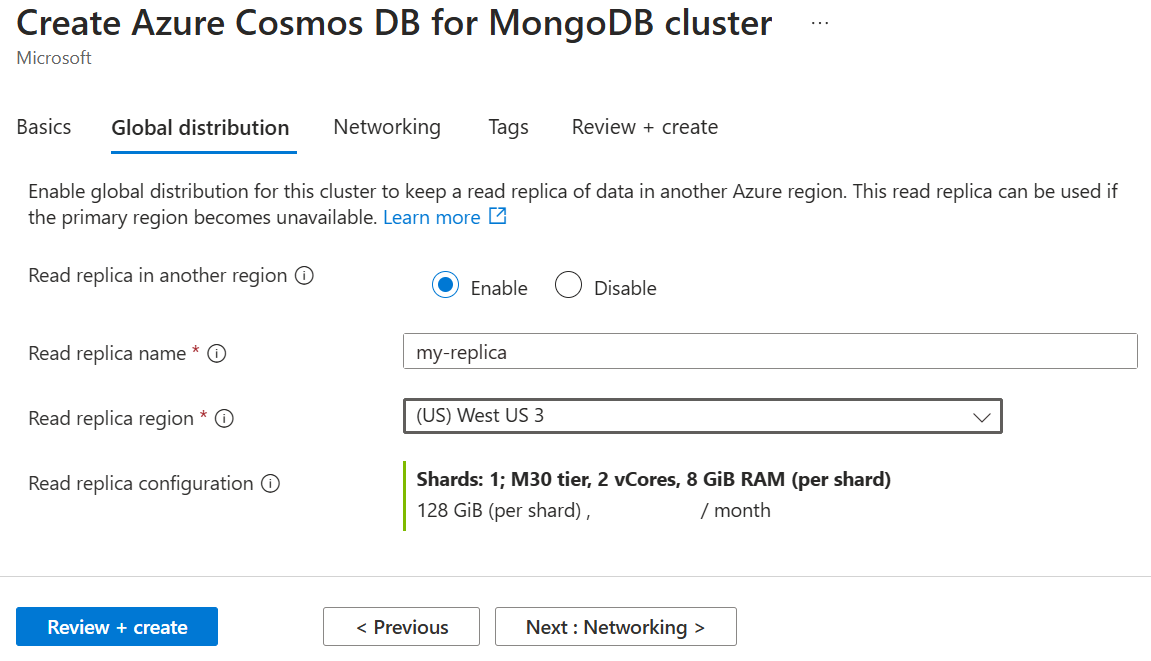
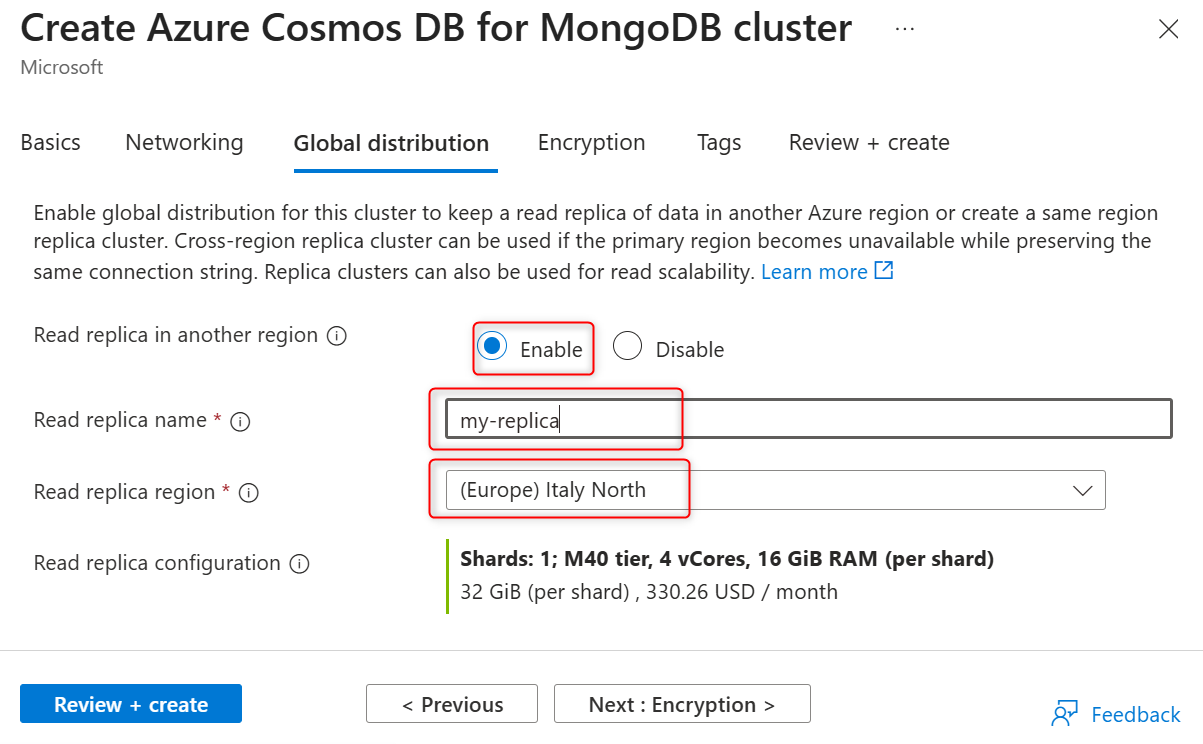
Concept and how to update

diff --git a/articles/cosmos-db/mongodb/vcore/how-to-cross-region-replica-portal.md b/articles/cosmos-db/mongodb/vcore/how-to-cross-region-replica-portal.md
@@ -17,16 +17,19 @@ appliesto:
 
 # Create and use a cross-region replica cluster or same region replica cluster in Azure Cosmos DB for MongoDB vCore
 
-In this guide, you create a cluster replica in another region for an Azure Cosmos DB for MongoDB vCore cluster for disaster recovery (DR) purposes. This replica cluster stores a copy of all of your MongoDB resources - databases, collections, and documents - in another Azure region. The replica cluster provides a unique endpoint for various tools and SDKs to connect to and could be promoted to become available for writes if there's a primary region outage.
+In this guide, you will create a **replica cluster** in either a different Azure region or the same region for an **Azure Cosmos DB for MongoDB vCore** cluster. A cross-region replica cluster can be used for **disaster recovery (DR)** and **read scalability**, while a replica cluster in the same region is primarily intended for **read scalability**.
+
+The replica cluster stores a copy of all your MongoDB resources—**databases**, **collections**, and **documents**—in another or the same Azure region. The replica cluster provides a **unique endpoint** for various tools and SDKs to connect to. It can be **promoted to accept writes** if the primary region experiences an outage.
 
 ## Prerequisites
 
-- An Azure account with an active subscription. [Create an account for free](https://azure.microsoft.com/free).
-- [MongoDB shell](https://www.mongodb.com/try/download/shell)
+[!INCLUDE[Prerequisite - Azure subscription](includes/prereq-azure-subscription.md)]
 
-## Create a new cluster and its replica in another region
+[!INCLUDE[Prerequisite - Mongo shell](includes/prereq-shell.md)]
 
-Create a MongoDB cluster with a cluster read replica in another region by using Azure Cosmos DB for MongoDB vCore.
+## Create a new cluster and its replica in another or the same region
+
+Create a MongoDB cluster with a cluster read replica by using Azure Cosmos DB for MongoDB vCore.
 
 > [!TIP]
 > For this guide, we recommend using the resource group name ``msdocs-cosmos-quickstart-rg``.
@@ -63,7 +66,7 @@ Create a MongoDB cluster with a cluster read replica in another region by using 
 
     :::image type="content" source="media/quickstart-portal/configure-scale.png" alt-text="Screenshot of cluster tier and scale options for a cluster.":::
 
-1. Back on the cluster page, enter the following information:
+1. Back on the cluster page enter the following information:
 
     | Setting | Value | Description |
     | --- | --- | --- |
@@ -77,16 +80,6 @@ Create a MongoDB cluster with a cluster read replica in another region by using 
 
     :::image type="content" source="media/how-to-cross-region-replication-portal/configure-cluster.png" alt-text="Screenshot of various configuration options for a cluster.":::
 
-1. Select **Next: Global distribution**.
-
-1. On the **Global distribution** tab, select **Enable** for **Read replica in another region** to create a cluster read replica as a part of this new primary cluster provisioning.
-
-1. In the **Read replica name** field, enter a name for the cluster read replica. It should be a globally unique cluster name.
-
-1. Select a value from the **Read replica region** drop-down list.
-
-    :::image type="content" source="media/how-to-cross-region-replication-portal/global-distribution-tab.png" alt-text="Screenshot of the global distribution tab in cluster provisioning.":::
-
 1. Select **Next: Networking**.
 
 1. On the **Networking** tab, select **Add current client IP address** to create a firewall rule with the public IP address of your computer, as perceived by the Azure system.
@@ -97,7 +90,17 @@ Verify your IP address before saving this configuration. In some situations, the
 
    :::image type="content" source="media/how-to-cross-region-replication-portal/what-is-my-ip.png" alt-text="Screenshot of a web search result for the current host's public IP address.":::
 
-You can also select add 0.0.0.0 - 255.255.255.255 firewall rule to allow not just your IP, but the whole Internet to access the cluster. In this situation, clients still must log in with the correct username and password to use the cluster. Nevertheless, it's best to allow worldwide access for only short periods of time and for only non-production databases.
+You can also select `Add 0.0.0.0 - 255.255.255.255` firewall rule to allow not just your IP, but the whole Internet to access the cluster. In this situation, clients still must log in with the correct username and password to use the cluster. Nevertheless, it's best to allow worldwide access for only short periods of time and for only non-production databases.
+
+1. Select **Next: Global distribution**.
+
+1. On the **Global distribution** tab, select **Enable** for **Cluster replica** to create a cluster read replica as a part of this new primary cluster provisioning.
+
+1. In the **Read replica name** field, enter a name for the cluster read replica. It should be a globally unique cluster name.
+
+1. Select a value from the **Read replica region** drop-down list.
+
+    :::image type="content" source="media/how-to-cross-region-replication-portal/global-distribution-tab.png" alt-text="Screenshot of the global distribution tab in cluster provisioning.":::
 
 1. Select **Review + create**.
 
@@ -187,13 +190,13 @@ db.cats.find();
 ## Enable access to replica cluster
 
 > [!IMPORTANT]
-> Replica clusters are always created with networking access disabled. You should add firewall rules or create private endpoints on the replica cluster after it is created to enable read operations.
+> Replica clusters are always created with networking access disabled. You should add firewall rules or create private endpoints on the replica cluster after it's created to enable read operations.
 
 1. From the Azure Cosmos DB for MongoDB vCore *primary* cluster page, select the **Global distribution** page under **Settings**.
 
     :::image type="content" source="media/how-to-cross-region-replication-portal/global-distribution-page-on-primary-cluster.png" alt-text="Screenshot of the global distribution page in the primary cluster properties.":::
 
-1. Select *cluster replica name* in the **Read replica** field to open the read cluster replica properties in the Azure portal.
+1. Select *replica cluster name* in the **Read replica** field to open the replica cluster properties in the Azure portal.
 
 1. On the MongoDB vCore replica cluster page, under **Settings**, select **Networking**.
 
@@ -201,13 +204,13 @@ db.cats.find();
 
     :::image type="content" source="media/how-to-cross-region-replication-portal/cluster-networking-adding-firewall-rule.png" alt-text="Screenshot of the networking page on read replica cluster.":::
   
-    Verify your IP address before saving this configuration. In some situations, the IP address observed by Azure portal differs from the IP address used when accessing the Internet and Azure services. You can also select add 0.0.0.0 - 255.255.255.255 firewall rule to allow not just your IP, but the whole Internet to access the cluster. In this situation, clients still must log in with the correct username and password to use the cluster.
+    Verify your IP address before saving this configuration. In some situations, the IP address observed by Azure portal differs from the IP address used when accessing the Internet and Azure services. You can also select `Add 0.0.0.0 - 255.255.255.255` firewall rule to allow not just your IP, but the whole Internet to access the cluster. In this situation, clients still must log in with the correct username and password to use the cluster.
 
 1. Select **Save** on the toolbar to save the settings. It might take a few minutes for the updated networking settings to become effective.
 
-## Connect to read replica cluster in another region and read data
+## Connect to read replica cluster in another region or the same region and read data
 
-Get the connection string for the read cluster replica in another region.
+Get the connection string for the replica cluster.
 
 1. On the replica cluster sidebar, under **Cluster management**, select **Connection strings**.
 
@@ -277,5 +280,5 @@ db.createCollection('bears')
 
 ## Related content
 
-- [Learn about cross-region replication in Azure Cosmos DB for MongoDB vCore](./cross-region-replication.md)
+- [Learn about cross-region and same region replication in Azure Cosmos DB for MongoDB vCore](./cross-region-replication.md)
 - [Migrate data to Azure Cosmos DB for MongoDB vCore](./migration-options.md)

diff --git a/articles/cosmos-db/mongodb/vcore/cross-region-replication.md b/articles/cosmos-db/mongodb/vcore/cross-region-replication.md
@@ -1,7 +1,7 @@
 ---
-title: Cross-region replication
+title: Cross-region and same region replication
 titleSuffix: Azure Cosmos DB for MongoDB vCore
-description: Learn about Azure Cosmos DB for MongoDB vCore cross-region disaster recovery (DR) and read replicas.
+description: Learn about Azure Cosmos DB for MongoDB vCore repplica clusters for cross-region disaster recovery (DR) and read scalability.
 author: niklarin
 ms.author: nlarin
 ms.service: azure-cosmos-db
@@ -11,21 +11,21 @@ ms.custom:
 - ignite-2024
 - sfi-image-nochange
 ms.topic: concept-article
-ms.date: 01/08/2025
+ms.date: 09/09/2025
+appliesto:
+  - ✅ MongoDB (vCore)
 #Customer Intent: As a database adminstrator, I want to configure cross-region replication, so that I can have disaster recovery plans in the event of a regional outage.
 ---
 
-# Cross-region replication in Azure Cosmos DB for MongoDB vCore
+# Cross-region and same region replication in Azure Cosmos DB for MongoDB vCore
 
-[!INCLUDE[MongoDB vCore](~/reusable-content/ce-skilling/azure/includes/cosmos-db/includes/appliesto-mongodb-vcore.md)]
+This article discusses cross-region disaster recovery (DR) for Azure Cosmos DB for MongoDB vCore. It also covers read capabilities of the replica clusters in the same or other Azure regions for read operations scalability.
 
-This article discusses cross-region disaster recovery (DR) for Azure Cosmos DB for MongoDB vCore. It also covers read capabilities of the cluster replicas in other regions for read operations scalability.
-
-The cross-region replication feature allows you to replicate data from a cluster to a read-only cluster in another Azure region. Replicas are updated with asynchronous replication technology. You can have one cluster replica in another region of choice for the primary Azure Cosmos DB for MongoDB vCore cluster. In a rare case of region outage, you can promote cluster replica in another region to become the new read-write cluster for continuous operation of your MongoDB database. Applications might continue to use the same connection strings after cluster replica in another region is promoted to become the new primary cluster.   
+The replication feature allows you to replicate data from a cluster to a read-only cluster in another or the same Azure region. Replicas are updated with asynchronous replication technology. You can have one cluster replica in another region of choice for the primary Azure Cosmos DB for MongoDB vCore cluster. In a rare case of region outage, you can promote cluster replica in another region to become the new read-write cluster for continuous operation of your MongoDB database. Applications might continue to use the same connection strings after cluster replica in another region is promoted to become the new primary cluster.
 
 Replicas are new clusters that you manage similar to regular clusters. For each read replica, you're billed for the provisioned compute in vCores and storage in GiB/month. Compute and storage costs for replica clusters have the same structure as the regular clusters and prices of the Azure region where they're created.
 
-## Disaster recovery using cluster read replicas
+## Disaster recovery using replica cluster
 
 Cross-region replication is one of several important pillars in [the Azure business continuity and disaster recovery (BCDR) strategy](/azure/reliability/business-continuity-management-program). Cross-region replication asynchronously replicates the same applications and data across other Azure regions for disaster recovery protection. Not all Azure services automatically replicate data or automatically fall back from a failed region to cross-replicate to another enabled region. Azure Cosmos DB for MongoDB vCore provides an option to create a cluster replica in another region and have data written on the primary cluster replicated to that replica automatically. The fallback to the cluster replica if there's an outage in the primary region needs to be initiated manually.
 
@@ -39,7 +39,7 @@ Replica clusters are also available for reads. It helps offload intensive read o
 
 :::image type="content" source="media/cross-region-replication/global-read-write-connection-string-in-azure-portal.png" alt-text="Screenshot of the cluster connection strings an Azure Cosmos DB for MongoDB (vCore) cluster including global read-write connection string and self connection string.":::
 
-When you create a replica by enabling cross-region replication, it doesn't inherit networking settings such as firewall rules of the primary cluster. These settings must be set up independently for the replica. The replica inherits the admin account from the primary cluster. User accounts need to be managed on the primary cluster. You can connect to the primary cluster and its replica cluster using the same user accounts.
+When you create a replica by enabling cross-region or same region replication, it doesn't inherit networking settings such as firewall rules of the primary cluster. These settings must be set up independently for the replica. The replica inherits the admin account from the primary cluster. User accounts need to be managed on the primary cluster. You can connect to the primary cluster and its replica cluster using the same user accounts.
 
 ## Replica cluster promotion
 

diff --git a/articles/cosmos-db/mongodb/vcore/includes/prereq-shell.md b/articles/cosmos-db/mongodb/vcore/includes/prereq-shell.md
@@ -1,0 +1,8 @@
+---
+ms.service: azure-cosmos-db
+ms.subservice: mongodb-vcore
+ms.topic: include
+ms.date: 09/09/2025
+---
+
+- [MongoDB shell](https://www.mongodb.com/try/download/shell)